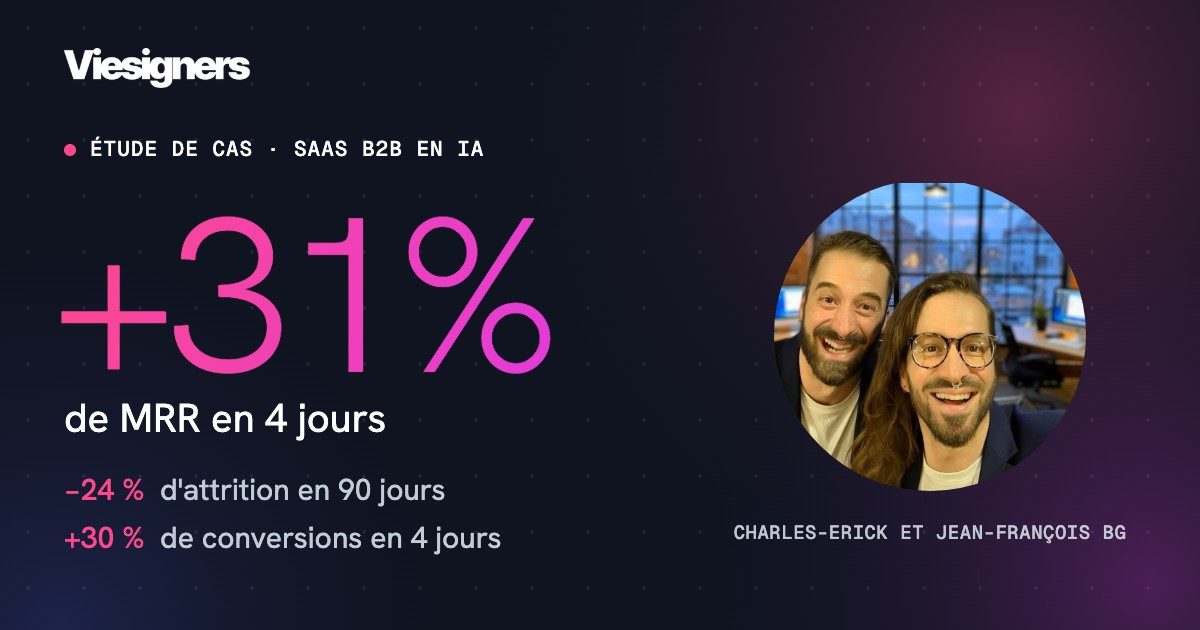
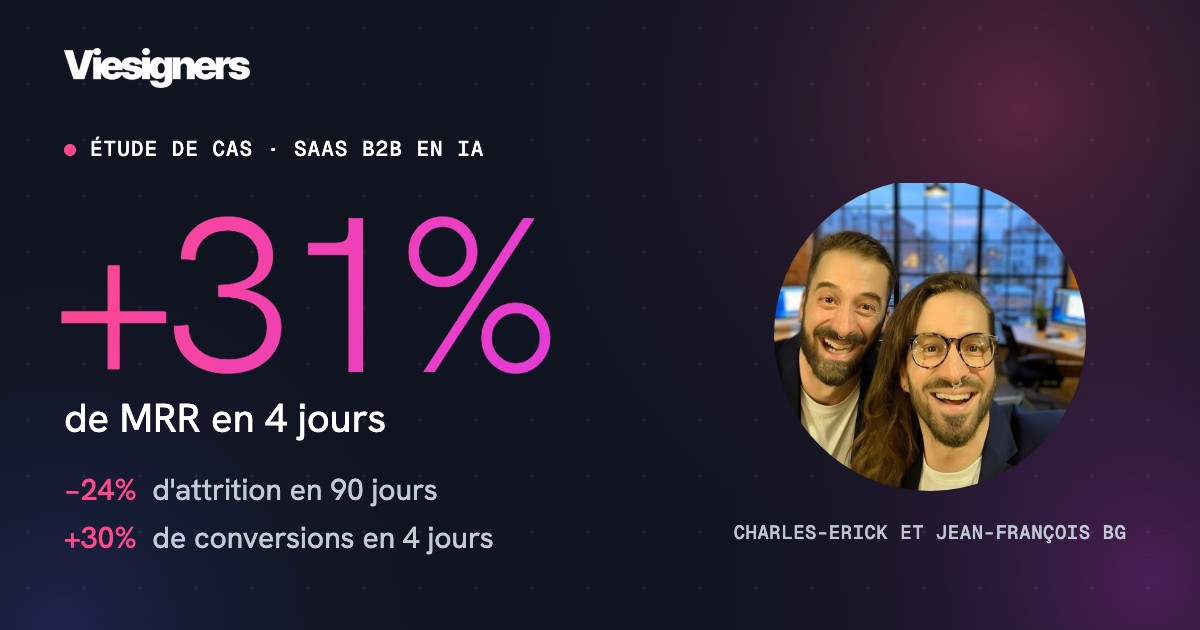
Case study: founders section redesign, new booking labels, no date in byline; FR: no space before % site-wide; testimonials heading

Changed region(s): [[0.0925, 0.754, 0.4317, 0.8746]]

diff --git a/src/assets/css/site.css b/src/assets/css/site.css
@@ -487,12 +487,21 @@ em.acc, .acc {
 .work--even .work__item figcaption span { display: block; margin-top: .45rem; color: var(--accent-text, var(--pink-600)); }
 .work--even .work__item figcaption p { margin-top: .7rem; color: var(--text-2); font-size: .98rem; line-height: 1.55; max-width: 52ch; }
 @media (min-width: 760px) { .work--even .work__item:last-child:nth-child(odd) { grid-column: 1 / -1 !important; justify-self: center; width: calc(50% - .6rem); } }
-.bio { display: grid; gap: clamp(2rem, 1rem + 3vw, 4rem); align-items: center; }
-.bio__text h2 { font-size: clamp(1.9rem, 1rem + 2.8vw, 3.2rem); line-height: 1.08; max-width: 20ch; }
-.bio__text .prose { margin-top: 1.8rem; }
-.bio__photo { margin: 0; max-width: 30rem; border-radius: var(--r-lg); overflow: hidden; background: var(--card); }
+.bio { display: grid; gap: clamp(2.4rem, 1.2rem + 4vw, 5rem); align-items: center; }
+.bio__text h2 { margin-top: 1.1rem; font-size: clamp(2.1rem, 1.2rem + 3.2vw, 3.8rem); line-height: 1.04; max-width: 14ch; }
+.bio__text .prose { margin-top: 1.8rem; display: grid; gap: 1rem; max-width: 52ch; }
+.bio__lead { font-size: clamp(1.15rem, 1.05rem + .5vw, 1.4rem); line-height: 1.45; color: var(--text); }
+.bio__checks { list-style: none; padding: 0; margin: 2rem 0 0; display: grid; gap: .75rem; padding-top: 1.6rem; border-top: 1px solid var(--line); max-width: 52ch; }
+.bio__checks li { display: grid; grid-template-columns: 1.3rem 1fr; gap: .7rem; align-items: start; color: var(--text); line-height: 1.45; }
+.bio__checks li svg { width: 1.15rem; height: 1.15rem; margin-top: .15rem; color: var(--pink-600); }
+.bio__media { position: relative; max-width: 32rem; }
+.bio__media::before { content: ""; position: absolute; inset: -12% -14% -10% -10%; z-index: 0; background: radial-gradient(closest-side at 70% 30%, rgba(255, 72, 139, .32), transparent 70%), radial-gradient(closest-side at 25% 85%, rgba(227, 58, 219, .26), transparent 72%); filter: blur(14px); pointer-events: none; }
+.bio__photo { position: relative; z-index: 1; margin: 0; border-radius: var(--r-lg); overflow: hidden; background: var(--card); box-shadow: 0 30px 60px -30px rgba(16, 20, 33, .45); }
 .bio__photo img { display: block; width: 100%; height: auto; aspect-ratio: 1 / 1; object-fit: cover; object-position: 50% 40%; }
-@media (min-width: 960px) { .bio { grid-template-columns: minmax(0, 7fr) minmax(0, 4.4fr); } .bio__photo { max-width: none; } }
+.bio__cap { position: absolute; left: .9rem; right: .9rem; bottom: .9rem; padding: .85rem 1.05rem; border-radius: .9rem; background: rgba(16, 20, 33, .6); -webkit-backdrop-filter: blur(12px); backdrop-filter: blur(12px); color: #fff; display: grid; gap: .2rem; }
+.bio__cap b { font-family: var(--f-display); font-weight: 400; font-size: 1.05rem; letter-spacing: -.01em; }
+.bio__cap span { font-family: var(--f-mono); font-size: .7rem; letter-spacing: .05em; text-transform: uppercase; color: var(--pink-300, #ff9dc0); }
+@media (min-width: 960px) { .bio { grid-template-columns: minmax(0, 7fr) minmax(0, 5fr); } .bio__media { max-width: none; justify-self: end; width: 100%; } }
 
 /* ---------- testimonials (masonry columns) ---------- */
 .tgrid { column-count: 1; column-gap: clamp(.8rem, .5rem + 1vw, 1.25rem); }
